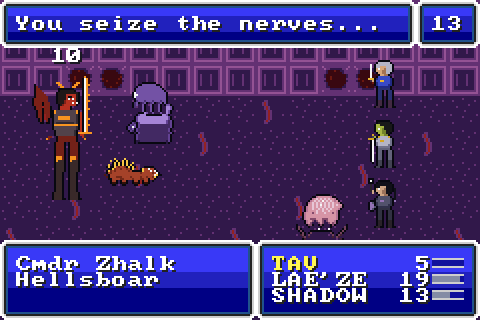
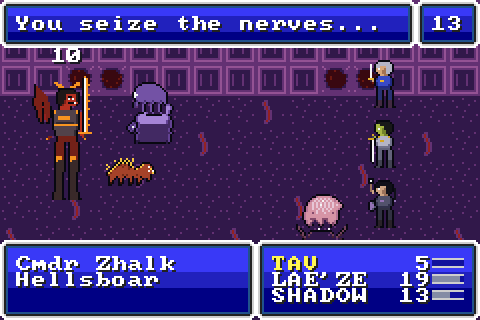
Art polish: redraw the cambion, boar, and dragon sprites
Replace the weakest battle sprite (cambion) with a proper horned devil -
snarling head, muscular hooved legs, clean bat-wing, gold trident. Fold in the
clearer infernal boar (gold mane, tusks) and red dragon redraws from the enemy
sprite pass. Build clean (all 12 battle sprites present, no fallbacks), all four
class paths re-verified with no regressions.

Changed region(s): [[0.2188, 0.4688, 0.3438, 0.5938], [0.0938, 0.25, 0.125, 0.2812]]

diff --git a/tools/art/sprites_battle.py b/tools/art/sprites_battle.py
@@ -805,38 +805,38 @@ FRAMES = {
     # tusks, four chunky cloven legs, little curl of tail at back.
     "b_boar_idle": [
         "................................",
-        ".....7....7.....................",
-        "...7.171.7171...................",
-        "....171717171.7.................",
-        "..7.17171717171.................",
-        ".171172322317171....11111.......",
-        "..1173223223217...1722W221......",
-        ".1732322222232111117222W2W1.....",
-        ".1232222222222222232222232W1....",
-        "6.12222222222222222222222W711...",
-        ".61222333222232222322322371.....",
-        "..112222332222322233221221......",
-        "...1221.1221..1221.1221.1.......",
-        "...1991.1991..1991.1991.........",
-        "....11...11....11...11..........",
+        "........7..7..7.................",
+        ".....7.171717.7.................",
+        "......17171717.....1111.........",
+        ".7...1713232171...172221........",
+        "..7.17322322317.117222W21.......",
+        ".7.1732222223221722222271.......",
+        "..17222222222222222222W2W1......",
+        ".1732222222222222222222271......",
+        ".13222222323222232222221........",
+        "..1222122212221222122221........",
+        "..1221.121..121.1221.121........",
+        "..121..121..121.121..11.........",
+        "..191..191..191.191.............",
+        "..11...11...11..11..............",
         "................................",
     ],
     "b_boar_act": [
         "................................",
-        "....7....7......................",
-        "..7.171.7171.7..................",
-        "...171717171.7...............7..",
-        ".7.171717171717..............71.",
-        "171172322317171.....11111...171.",
-        ".1173223223217....1722W221.17W1.",
-        "1732322222232111117222W2W1.17W1.",
-        "1232222222222222223222223W2W71..",
-        "12222222222222222222222W2W711...",
-        ".1222333222232222322322371......",
-        "..112232222232223321221221......",
-        "...121..121...121..121.1........",
-        "..1991..1991..1991.1991.........",
-        "..11.....11....11...11..........",
+        ".......7..7..7..................",
+        "....7.17171717.7................",
+        ".....171717171.................7",
+        "6...17132321717......1111.....7.",
+        ".6.1732232231717....17221....17.",
+        "6.1732222232321..1172221...17W1.",
+        ".172222222222222117222W2W117W1..",
+        "1732222222222222222222W2W2W1....",
+        "13222222232322223222222271......",
+        ".12221222122212221222221........",
+        ".1221.121..121.1221.121.........",
+        ".121..121..121.121..11..........",
+        ".191..191..191.191..............",
+        ".11...11...11..11...............",
         "................................",
     ],
     # ================================================== enslaved thrall
@@ -1056,72 +1056,72 @@ FRAMES = {
     # winged red devil-man: two horns, big scalloped bat wing spread up-left
     # (ribs=1, membrane=8), second wing behind body, gold trident. Faces RIGHT.
     "b_cambion_idle": [
-        "1...1...1......1...1.....7.....7",
-        ".1..1..1.1....12...1.....717.717",
-        "..1.1.1..1....12...1.....7.7.7.7",
-        "..1.1.1..1...1.2...1......7.7.7.",
-        "...111...1...1.23..1.......77177",
-        "..18188..1...11233.1........171.",
-        "..1888188.1..1.2332.1.......171.",
-        "...18881881..1.2W332.1......171.",
-        "...18888188..1.23332.1......171.",
-        "....1888818...1233321.......171.",
-        "....18888811..1123211.......171.",
-        ".....18888811..12321........171.",
-        "......1888881..12221.......7171.",
-        "......11888811122222211....171..",
-        ".......1111.1222233222211..171..",
-        "...........12222332222287771171.",
-        "..........122223332222281..1811.",
-        "..........12233332222281...18881",
-        "..........122333322228.....18881",
-        "..........12233332221......1881.",
-        "..........155565551........181..",
-        "..........15566551..........1...",
-        "..........16556651..............",
-        "..........166.6661..............",
-        "..........161..661..............",
-        "..........121..261..............",
-        "..........121..261..............",
-        "..........121..221..............",
-        "..........191..291..............",
-        ".........1991..2991.............",
-        ".........199....991.............",
-        "..........1......1..............",
+        "............17......71..........",
+        "...........1721....1271.........",
+        "..1........17321..12371.........",
+        ".131.......1732211223371........",
+        ".1331......17322222223371..7....",
+        "13331.1....1731W3W3W1371...171..",
+        "133311331..173211311123321.71...",
+        "13331313311173322W322W3221.171..",
+        ".1333133133113321WWW23321.1171..",
+        "..1333133331.1332111233321.171..",
+        "...1333133331.1322322321..17171.",
+        "....13331333311.1322231...1171..",
+        ".....1333133331155555561...171..",
+        "......133313331556666651....171.",
+        ".......13331315777777751.....171",
+        "........1333155666666651....1171",
+        ".........13315566666665122271171",
+        "..........13155555555612232711..",
+        "..........131.132222321.1271....",
+        "..........131.1322322321.71.....",
+        "...........1322332332221........",
+        "..........13322332332321........",
+        "..........1332233223322321......",
+        "..........1332.121.2333221......",
+        "..........1332.111.123321.......",
+        "..........1322.....12321........",
+        "..........1332.....13321........",
+        "..........1332.....13321........",
+        "..........1992.....12991........",
+        ".........19992.....129991.......",
+        ".........1999.......9991........",
+        "..........11.........11.........",
     ],
     "b_cambion_act": [
-        "1........1...1...1..............",
-        ".1......1.1.12...1......181.....",
-        "..1....1...112...1....118881....",
-        "..18..1.81.1.23..1...1188881....",
-        "...188.881.11233.1...1188881....",
-        "...18888881.1.2332.1..118881....",
-        "....1888818.1.2W332.1..18881....",
-        "....188888811.23332.1...1881....",
-        ".....18888811.233321.....181....",
-        ".....188888811123211......11....",
-        "......18888881.12321............",
-        "......118888811.1221............",
-        ".......11888881.222111.7........",
-        "........1188888.2222217.7.......",
-        ".........12222222222217.7.7.....",
-        ".........1222233322277777777....",
-        ".........12222333322217.7.7.....",
-        ".........1223333322221.7........",
-        ".........122333322221...........",
-        ".........122333322221...........",
-        ".........155565551..............",
-        ".........15566551...............",
-        "........1165566551..............",
-        "........16.65.6661..............",
-        ".......161...6661...............",
-        ".......161....261...............",
-        "......121.....261...............",
-        "......121.....221...............",
-        ".....1991.....291...............",
-        ".....199......2991..............",
-        "......1.......199...............",
-        "..............1.1...............",
+        "............17......71..........",
+        "...........1721....1271.........",
+        "..1........17321..12371.........",
+        ".131.......1732211223371........",
+        ".1331......17322222223371.......",
+        "13331.1....1731W3W3W1371........",
+        "133311331..173211311123321......",
+        "13331313311173322W322W3221......",
+        ".1333133133113321WWW23321.1.....",
+        "..1333133331.1332111233321......",
+        "...13331333311.132222311........",
+        "....1333133331..15555556........",
+        ".....1333133315566666556........",
+        "......133313315777777756........",
+        ".......13331315666666556777.....",
+        "........13331155555556617.7.....",
+        ".........133155555561222771.....",
+        "..........1315322232112271......",
+        "..........13132232232.171...7...",
+        "..........1322322332321.1.7.7...",
+        "..........13223322332217777777..",
+        "..........1332232233221.1.7.7...",
+        "..........1332.121.23321.171....",
+        "..........1332.111.13321...7....",
+        "..........1322.....13321........",
+        "..........1332.....12321........",
+        "..........1332.....13321........",
+        ".........19921.....13321........",
+        ".........19921.....12991........",
+        "........199921.....129991.......",
+        "........1999........19991.......",
+        ".........11..........111........",
     ],
     # ================================================== Commander Zhalk (boss)
     # towering cambion, faces RIGHT: great bat wing, gold horns, glowing eyes,
@@ -1334,39 +1334,39 @@ FRAMES = {
     # in-flight silhouette facing LEFT: wings raised (frame 0) / swept down
     # (frame 1), horned head, long trailing tail.
     "dragon0": [
-        "....................11..........",
-        ".................13331..11......",
-        "..............13333331.1331.....",
-        "...........1333313331.1331......",
-        ".........1333313331331.13331....",
-        "........1333313331333113331.....",
-        ".111..11111111111111111.........",
-        ".1W21122222222222222221.........",
-        "12212222222222222222222221......",
-        "..1133333333333333331...12211...",
-        "......11311311...........12221..",
-        "..........................1221..",
-        "...........................11...",
-        "................................",
-        "................................",
-        "................................",
+        "............1........1..........",
+        "...........151......15.1........",
+        "..........15.51....15.5.1.......",
+        ".........15..551..15.55.51......",
+        "....11...15...55115.555.551.....",
+        "..1.221.15.....15555555.5551....",
+        ".1W2221.1.2...1522222225.5.1....",
+        "1.1221.1.22..15222222222551.....",
+        ".11.1221.22.1522222222222221....",
+        "....12222221522222222222222221..",
+        ".....1222221322222222233333331..",
+        "......122211332222223333311111..",
+        ".......11113322233333111........",
+        "..........11333333311...........",
+        "............1133311.............",
+        "..............111...............",
     ],
     "dragon1": [
         "................................",
-        "................................",
-        "................................",
-        "................................",
-        "................................",
-        "................................",
-        ".111..11111111111111111.........",
-        ".1W21122222222222222221.........",
-        "12212222222222222222222221......",
-        "..1133333333333333331...12211...",
-        "......11311311...........12221..",
-        "......13333331..13333331.1221...",
-        ".......133331....133331....11...",
-        "........1331......1331..........",
-        ".........11........11...........",
-        "................................",
+        "....11..........................",
+        "..1.221.........................",
+        ".1W2221.....1.......1...........",
+        "1.1221..1..151.....15.1.........",
+        ".11.12222.15.51...15.5.1........",
+        "....122222215..551.5.55.1.......",
+        ".....12222221....55155.551......",
+        "......122222215222255.5551......",
+        ".......1222221522222255551......",
+        "........12222132222222225551....",
+        ".........12221332222233335551...",
+        "..........1221333222333315551...",
+        "...........111333333311.1551....",
+        ".............1113333311..111....",
+        "...............11111............",
     ],
 }